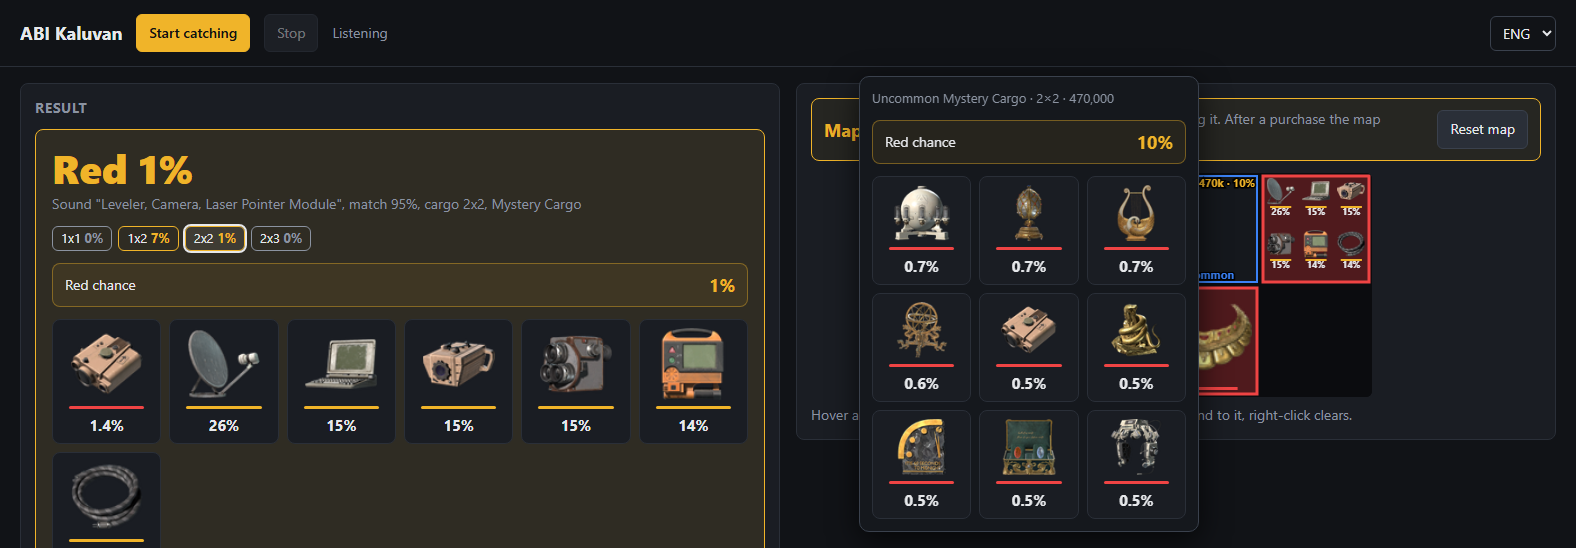
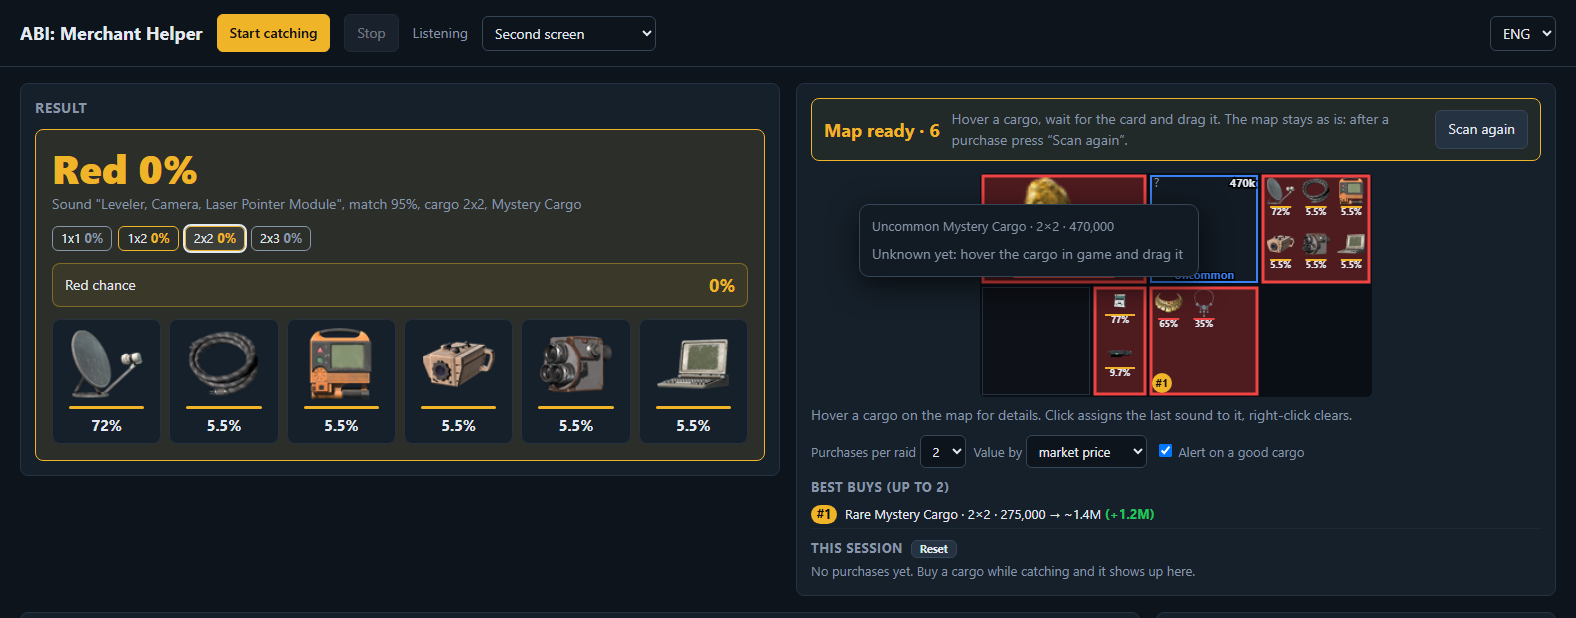
Slate blue-grey palette, new screenshots

diff --git a/index.html b/index.html
@@ -7,7 +7,7 @@
 <title>ABI: Merchant Helper</title>
 <style>
   :root {
-    --bg: #111317; --panel: #1a1d23; --line: #2a2f38; --text: #e6e8eb; --muted: #8b93a1;
+    --bg: #0e141b; --panel: #16202a; --line: #253241; --text: #e3e9f0; --muted: #8796a8;
     --accent: #f0b429; --ok: #3ecf8e; --bad: #ef4444;
   }
   * { box-sizing: border-box; }
@@ -24,16 +24,16 @@
   @media (max-width: 960px) { .top { grid-template-columns: 1fr; } .top .result-col { position: static; } }
   section { background: var(--panel); border: 1px solid var(--line); border-radius: 8px; padding: 14px; margin-bottom: 16px; }
   section h2 { margin: 0 0 10px; font-size: 14px; text-transform: uppercase; letter-spacing: .04em; color: var(--muted); }
-  button { background: #2a2f38; color: var(--text); border: 1px solid #3a414d; border-radius: 6px; padding: 8px 12px; font: inherit; cursor: pointer; }
-  button:hover { background: #343a45; }
+  button { background: #253241; color: var(--text); border: 1px solid #364657; border-radius: 6px; padding: 8px 12px; font: inherit; cursor: pointer; }
+  button:hover { background: #2e3d4e; }
   button.primary { background: var(--accent); color: #111; border-color: var(--accent); font-weight: 600; }
   button.danger { color: var(--bad); }
   button.small { padding: 3px 8px; font-size: 12px; }
   button:disabled { opacity: .45; cursor: default; }
-  select, input[type=text], input[type=number] { background: #111317; color: var(--text); border: 1px solid #3a414d; border-radius: 6px; padding: 6px 8px; font: inherit; min-width: 0; }
+  select, input[type=text], input[type=number] { background: #0e141b; color: var(--text); border: 1px solid #364657; border-radius: 6px; padding: 6px 8px; font: inherit; min-width: 0; }
   label { color: var(--muted); }
   .row { display: flex; gap: 8px; align-items: center; flex-wrap: wrap; margin-bottom: 10px; }
-  canvas { width: 100%; display: block; background: #0b0c0f; border-radius: 6px; }
+  canvas { width: 100%; display: block; background: #0a0f15; border-radius: 6px; }
   #screen { cursor: crosshair; }
   #map { cursor: pointer; width: auto; max-width: 100%; margin: 0 auto; }
   .muted { color: var(--muted); }
@@ -44,7 +44,7 @@
   /* Steps */
   .steps { display: grid; grid-template-columns: 1fr 1fr; gap: 8px; margin-bottom: 12px; }
   .step { border: 1px solid var(--line); border-radius: 6px; padding: 6px 10px; color: var(--muted); font-size: 13px; }
-  .step b { display: inline-block; width: 20px; height: 20px; line-height: 20px; text-align: center; border-radius: 50%; background: #2a2f38; margin-right: 6px; }
+  .step b { display: inline-block; width: 20px; height: 20px; line-height: 20px; text-align: center; border-radius: 50%; background: #253241; margin-right: 6px; }
   .step.active { border-color: var(--accent); color: var(--text); }
   .step.active b { background: var(--accent); color: #111; }
   .step.done b { background: var(--ok); color: #111; }
@@ -53,12 +53,12 @@
   .stage .grow { flex: 1; }
 
   /* Result */
-  #result { border-radius: 8px; padding: 16px; background: #0b0c0f; border: 1px solid var(--line); min-height: 150px; transition: border-color .15s, background .15s; }
+  #result { border-radius: 8px; padding: 16px; background: #0a0f15; border: 1px solid var(--line); min-height: 150px; transition: border-color .15s, background .15s; }
   #result .big { font-size: 40px; font-weight: 800; line-height: 1.1; }
   .chance { display: flex; justify-content: space-between; align-items: center; padding: 8px 12px; border: 1px solid; border-radius: 8px; margin: 12px 0; }
   .chance b { font-size: 18px; }
   .tiles { display: grid; grid-template-columns: repeat(auto-fill, minmax(96px, 1fr)); gap: 8px; }
-  .tile { background: #1a1d23; border: 1px solid var(--line); border-radius: 8px; padding: 8px 6px 6px; text-align: center; }
+  .tile { background: #16202a; border: 1px solid var(--line); border-radius: 8px; padding: 8px 6px 6px; text-align: center; }
   .tile img { width: 72px; height: 72px; object-fit: contain; display: block; margin: 0 auto; }
   .tile .noimg { height: 72px; display: flex; align-items: center; justify-content: center; font-size: 11px; color: var(--muted); }
   .tile i { display: block; height: 3px; border-radius: 2px; margin: 6px 10px; }
@@ -85,18 +85,18 @@
   .update:hover { background: rgba(59, 130, 246, .15); }
   .update:not([hidden]) + .lang { margin-left: 0; }
   .credits { text-align: center; color: var(--muted); font-size: 12px; padding: 8px 20px 20px; }
-  .map-pop { position: fixed; z-index: 10; width: 340px; background: #15181d; border: 1px solid #3a414d; border-radius: 10px; padding: 12px; box-shadow: 0 8px 30px #000a; pointer-events: none; }
+  .map-pop { position: fixed; z-index: 10; width: 340px; background: #121a23; border: 1px solid #364657; border-radius: 10px; padding: 12px; box-shadow: 0 8px 30px #000a; pointer-events: none; }
   .map-pop .head { color: var(--muted); font-size: 13px; }
   .map-pop .tiles { grid-template-columns: repeat(3, 1fr); }
   .map-pop .tile img { width: 56px; height: 56px; }
   #result .sub { color: var(--muted); margin: 4px 0 12px; }
   .bars div { display: flex; align-items: center; gap: 8px; margin: 4px 0; }
-  .bars .bar { flex: 1; height: 10px; background: #1a1d23; border-radius: 5px; overflow: hidden; }
+  .bars .bar { flex: 1; height: 10px; background: #16202a; border-radius: 5px; overflow: hidden; }
   .bars .bar i { display: block; height: 100%; }
   .bars .name { width: 100px; }
   .bars .val { width: 48px; text-align: right; font-variant-numeric: tabular-nums; }
   .items { margin-top: 12px; display: flex; flex-wrap: wrap; gap: 6px; }
-  .chip { display: inline-flex; align-items: center; gap: 6px; padding: 3px 8px; border-radius: 12px; background: #1a1d23; border: 1px solid var(--line); font-size: 13px; }
+  .chip { display: inline-flex; align-items: center; gap: 6px; padding: 3px 8px; border-radius: 12px; background: #16202a; border: 1px solid var(--line); font-size: 13px; }
   .chip img { width: 28px; height: 28px; object-fit: contain; }
   .dot { width: 10px; height: 10px; border-radius: 50%; flex: none; }
 
@@ -109,7 +109,7 @@
   .sound .meta { color: var(--muted); font-size: 12px; margin: 4px 0 8px; }
   .item-row { display: flex; align-items: center; gap: 6px; margin: 4px 0; font-size: 13px; }
   .item-row .grow { flex: 1; overflow: hidden; text-overflow: ellipsis; white-space: nowrap; }
-  .item-row img { width: 24px; height: 24px; object-fit: contain; background: #0b0c0f; border-radius: 4px; }
+  .item-row img { width: 24px; height: 24px; object-fit: contain; background: #0a0f15; border-radius: 4px; }
   .add-item { display: grid; grid-template-columns: 1fr 96px 74px 50px auto; gap: 6px; margin-top: 8px; }
   details summary { cursor: pointer; font-size: 12px; }
   .sizes { display: flex; flex-wrap: wrap; gap: 6px; margin-bottom: 12px; }
@@ -1612,7 +1612,7 @@ function showHover(rec) {
   const odds = cargoRedOdds(rec);
   const label = rec.label;
   const red = odds ? odds.red : null;
-  const color = red === null ? '#8b93a1' : redColor(red);
+  const color = red === null ? '#8796a8' : redColor(red);
   ui.result.style.borderColor = color;
   ui.result.style.background = color + '1a';
   const title = red === null ? tr('hover.title') : red >= 0.995 ? tr('card.red') : red > 0 ? tr('hover.maybe', { p: pct(red) }) : tr('hover.none');
@@ -1888,10 +1888,10 @@ function drawMapInner() {
   const H = placed.length ? Math.min(MAP_MAX_ROWS, Math.max(1, maxR - minR)) * MAP_U : 120;
   if (ui.map.width !== W || ui.map.height !== H) { ui.map.width = W; ui.map.height = H; }
   const c = mapCtx;
-  c.fillStyle = '#0b0c0f';
+  c.fillStyle = '#0a0f15';
   c.fillRect(0, 0, W, H);
   if (!placed.length) {
-    c.fillStyle = '#8b93a1'; c.font = '13px system-ui, sans-serif'; c.textAlign = 'center'; c.textBaseline = 'middle';
+    c.fillStyle = '#8796a8'; c.font = '13px system-ui, sans-serif'; c.textAlign = 'center'; c.textBaseline = 'middle';
     c.fillText(tr('map.empty'), W / 2, H / 2);
     renderBestBuys([]);
     return;
@@ -1902,7 +1902,7 @@ function drawMapInner() {
   for (const rec of placed) {
     const key = keyOf.get(rec);
     const x = (rec.C - minC) * MAP_U, y = (rec.R - minR) * MAP_U, w = rec.w * MAP_U, h = rec.h * MAP_U;
-    c.fillStyle = '#15181d';
+    c.fillStyle = '#121a23';
     c.fillRect(x + 2, y + 2, w - 4, h - 4);
     if (rec.thumb) { c.globalAlpha = 0.35; c.drawImage(rec.thumb, x + 2, y + 2, w - 4, h - 4); c.globalAlpha = 1; }
 
@@ -1911,7 +1911,7 @@ function drawMapInner() {
       c.fillStyle = 'rgba(11,12,15,.7)';
       c.fillRect(x + 2, y + 2, w - 4, h - 4);
       if (rec.bought.img) { c.globalAlpha = 0.6; drawItemIcon(c, rec.bought, x + 8, y + 8, w - 16, h - 16); c.globalAlpha = 1; }
-      c.strokeStyle = '#3a414d'; c.lineWidth = 1;
+      c.strokeStyle = '#364657'; c.lineWidth = 1;
       c.strokeRect(x + 2.5, y + 2.5, w - 5, h - 5);
       c.fillStyle = '#22c55e'; c.font = 'bold 14px system-ui, sans-serif'; c.textAlign = 'left'; c.textBaseline = 'top';
       c.fillText('✓', x + 6, y + 4);
@@ -1927,7 +1927,7 @@ function drawMapInner() {
         // a category cargo whose pools hold no reds (Tools, Paper…): dimmed
         c.fillStyle = 'rgba(11,12,15,.6)';
         c.fillRect(x + 2, y + 2, w - 4, h - 4);
-        c.strokeStyle = '#2a2f38'; c.lineWidth = 1;
+        c.strokeStyle = '#253241'; c.lineWidth = 1;
         c.strokeRect(x + 2.5, y + 2.5, w - 5, h - 5);
         continue;
       }
@@ -1952,10 +1952,10 @@ function drawMapInner() {
         c.fillStyle = revealed.color;
         c.fillText(qName(revealed), x + w / 2, y + h - 4);
       } else {
-        c.strokeStyle = '#3a414d'; c.lineWidth = 1;
+        c.strokeStyle = '#364657'; c.lineWidth = 1;
         c.strokeRect(x + 2.5, y + 2.5, w - 5, h - 5);
       }
-      c.fillStyle = '#8b93a1'; c.font = '12px system-ui, sans-serif'; c.textAlign = 'left'; c.textBaseline = 'top';
+      c.fillStyle = '#8796a8'; c.font = '12px system-ui, sans-serif'; c.textAlign = 'left'; c.textBaseline = 'top';
       c.fillText('?', x + 6, y + 5);
       if (rec.price) {
         // tooltip price and the red chance by it (before any sound)
@@ -1964,7 +1964,7 @@ function drawMapInner() {
         c.lineWidth = 3; c.strokeStyle = '#000';
         const text = money(rec.price) + (odds && odds.red > 0 ? ` · ${pct(odds.red)}` : '');
         c.strokeText(text, x + w - 5, y + 5);
-        c.fillStyle = odds && odds.red > 0 ? redColor(odds.red) : '#e6e8eb';
+        c.fillStyle = odds && odds.red > 0 ? redColor(odds.red) : '#e3e9f0';
         c.fillText(text, x + w - 5, y + 5);
       }
       continue;
@@ -1976,7 +1976,7 @@ function drawMapInner() {
     // If there is one item (or nearly certain), one big picture.
     const cands = itemOdds(sound, size, info).filter(x => x.p >= 0.02);
     const top = cands.slice().sort((a, b) => b.p - a.p)[0];
-    c.fillStyle = red > 0 ? 'rgba(127,29,29,.55)' : '#15181d';
+    c.fillStyle = red > 0 ? 'rgba(127,29,29,.55)' : '#121a23';
     c.fillRect(x + 2, y + 2, w - 4, h - 4);
     if (top && (cands.length === 1 || top.p >= 0.995)) {
       drawItemIcon(c, top.it, x + 6, y + 4, w - 12, h - 16);
@@ -1992,11 +1992,11 @@ function drawMapInner() {
         c.fillStyle = qById[it.q].color;
         c.fillRect(cx + cw * 0.2, cy + s + 2, cw * 0.6, 2);
         c.font = 'bold 9px system-ui, sans-serif'; c.textAlign = 'center'; c.textBaseline = 'top';
-        c.fillStyle = '#e6e8eb';
+        c.fillStyle = '#e3e9f0';
         c.fillText(pctFine(p), cx + cw / 2, cy + s + 4);
       });
     }
-    const color = red > 0 ? '#ef4444' : '#3a414d';
+    const color = red > 0 ? '#ef4444' : '#364657';
     c.strokeStyle = key === lastKey ? '#f0b429' : color; c.lineWidth = key === lastKey || red > 0 ? 3 : 1;
     c.strokeRect(x + 3, y + 3, w - 6, h - 6);
   }
@@ -2261,7 +2261,7 @@ function setRecording(id) {
 function drawLevel(db, trig) {
   const { width: w, height: h } = ui.spec;
   specCtx.drawImage(ui.spec, -1, 0);
-  specCtx.fillStyle = '#0b0c0f';
+  specCtx.fillStyle = '#0a0f15';
   specCtx.fillRect(w - 1, 0, 1, h);
   const v = Math.min(1, Math.max(0, (db + 90) / 80));
   specCtx.fillStyle = `hsl(${200 - v * 160}, 80%, 55%)`;
@@ -2335,7 +2335,7 @@ function itemName(it) { return I18n.lang === 'en' && it.nameEn ? it.nameEn : it.
 function soundName(s) { return I18n.lang === 'en' && s.nameEn ? s.nameEn : s.name; }
 function qName(q) { return tr('q.' + q.id); }
 function money(x) { return x >= 1e6 ? (x / 1e6).toFixed(1) + 'M' : Math.round(x / 1000) + 'k'; }
-function redColor(red) { return red >= 0.5 ? '#ef4444' : red > 0 ? '#f0b429' : '#8b93a1'; }
+function redColor(red) { return red >= 0.5 ? '#ef4444' : red > 0 ? '#f0b429' : '#8796a8'; }
 function esc(s) { return String(s).replace(/[&<>"']/g, c => ({ '&': '&amp;', '<': '&lt;', '>': '&gt;', '"': '&quot;', "'": '&#39;' }[c])); }
 function setStatus(s) { ui.status.textContent = s; }
 function log(s) {
